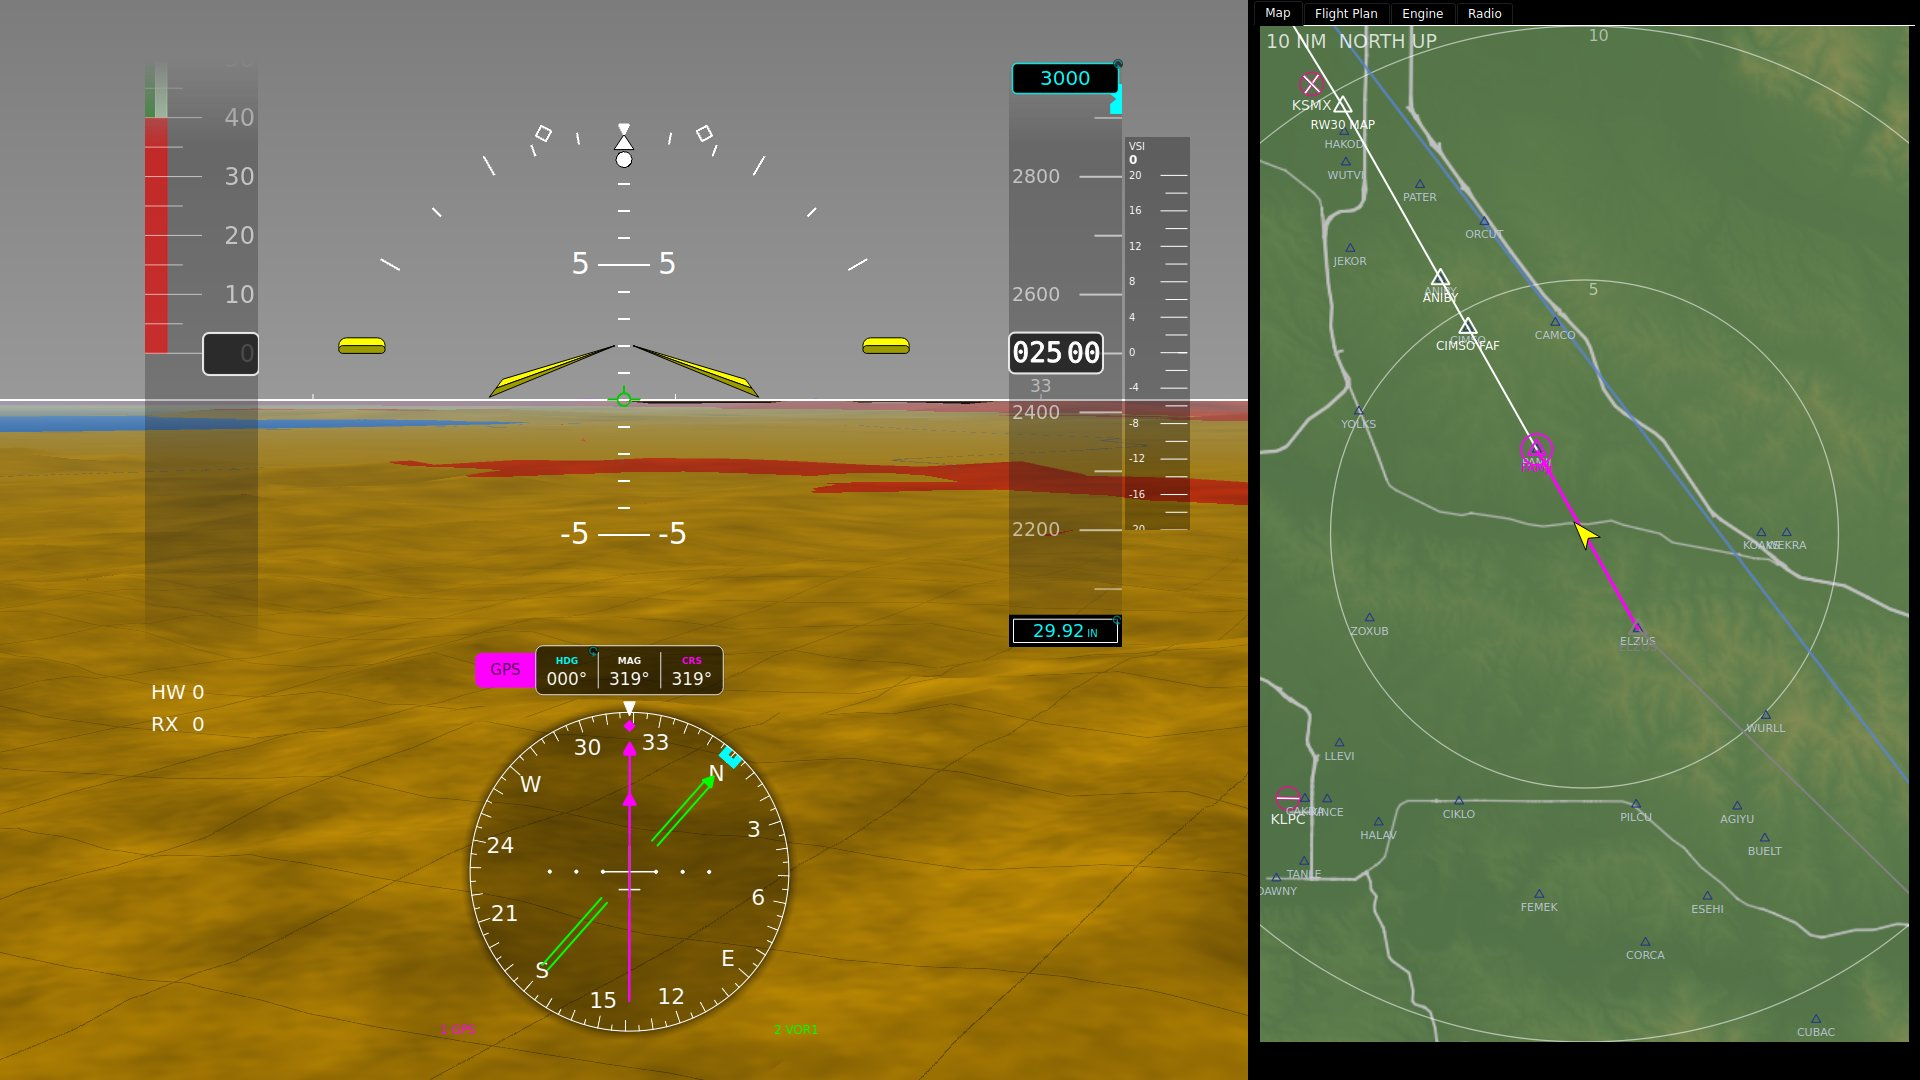
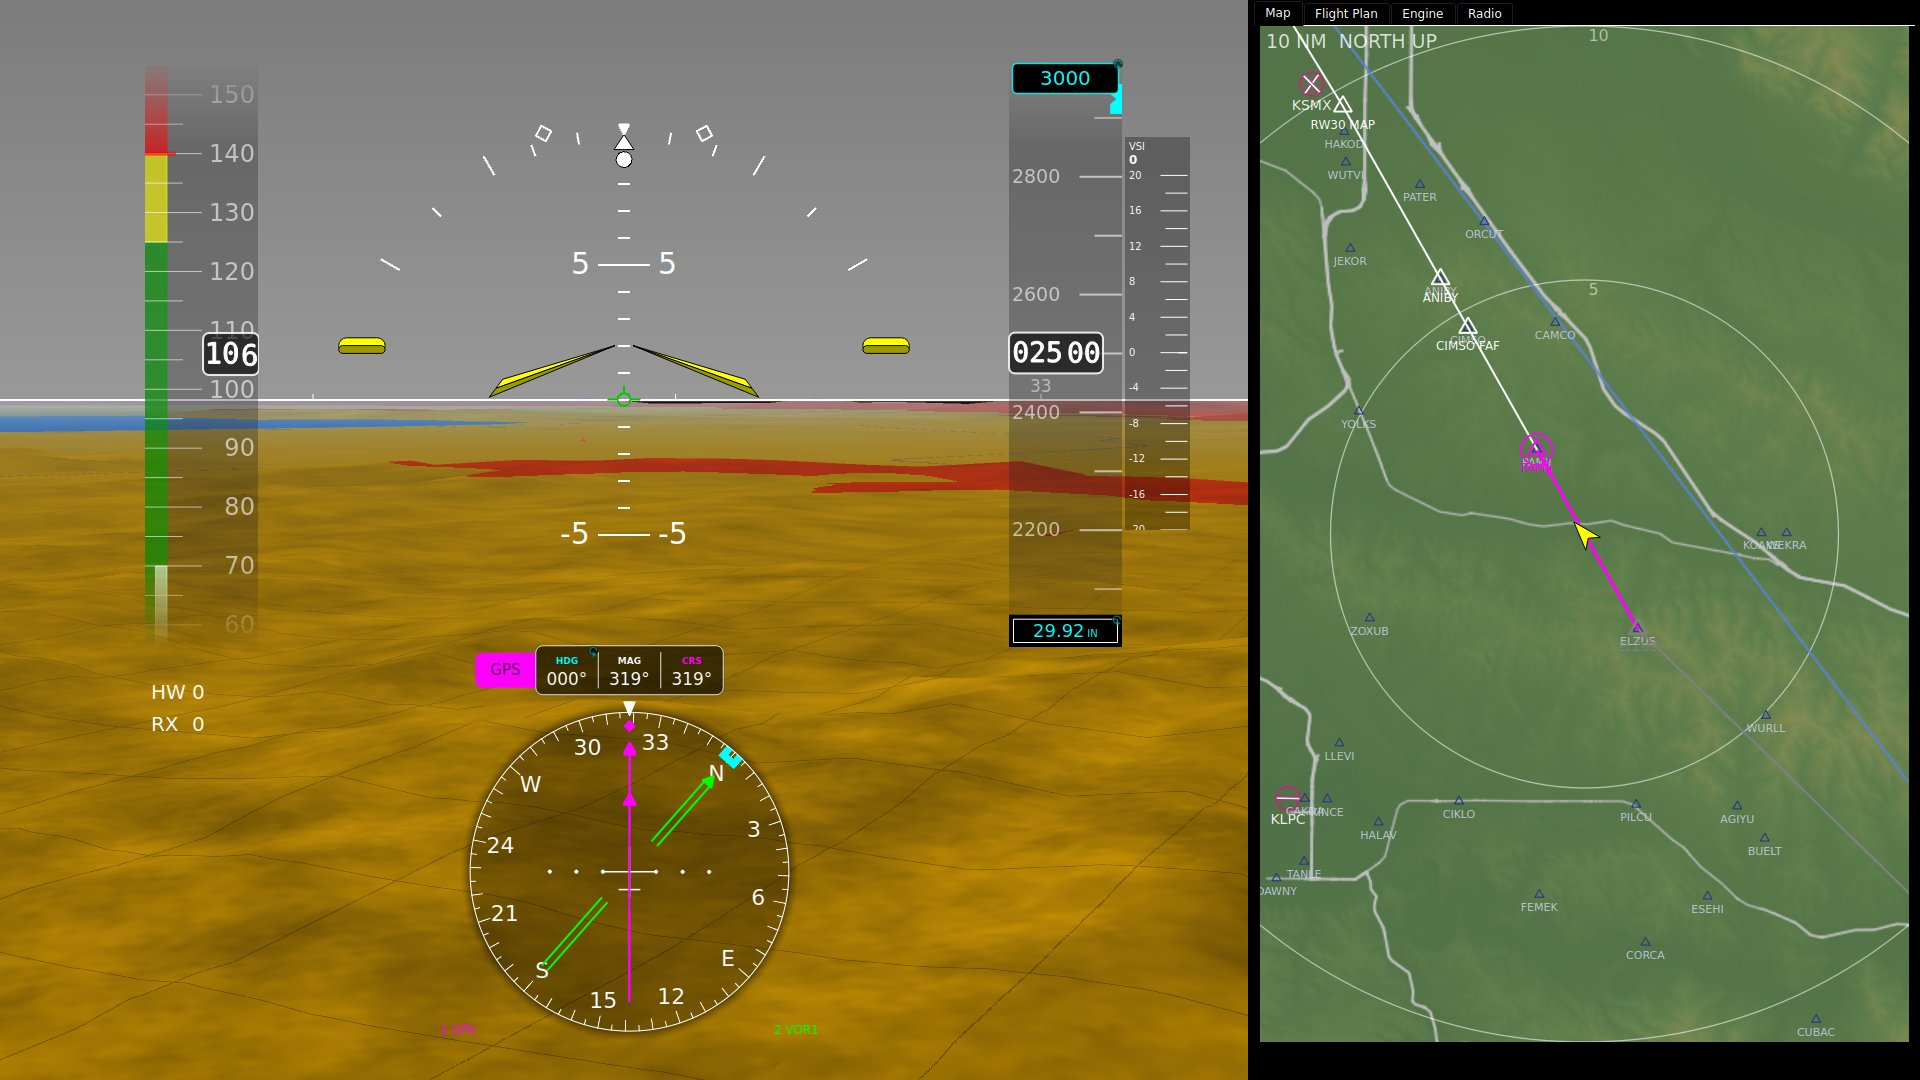
doc/evidence: SYN2 Beelink run 2, IAS on the tape (AER-4209)

Changed region(s): [[0.0625, 0.0611, 0.1562, 0.5806]]

diff --git a/doc/evidence/syn2-live/README.md b/doc/evidence/syn2-live/README.md
@@ -1,5 +1,12 @@
 # SYN2 live-mode bench runs, 2026-10-30
 
+The Beelink frames and `beelink-marks.jsonl` are from run 2 (22:28-22:48 UTC,
+branch at `60153d6`, the generator now feeding `IAS`), against the bench
+gateway at `27dccad` (dev with AER-4217's 2 s position bound). Run 1
+(12:41 UTC, no `IAS`, so the tape read 0 kt) is in the history of this
+directory. The Pi 5 log is from run 1; the Pi was not re-run, because IAS
+changes nothing it can evidence without a screenshot.
+
 Profile `fp8-ksmx-rnav30-missed` flown live at x1 (1172.2 s) into each
 bench's running gateway, no sim, from a scratch copy of `src/fixgw` on
 branch `syn2/live-mode` (`~/bench-scratch/syn2/src`, not the bench checkout),
@@ -7,8 +14,8 @@ under `/tmp/pyefis-bench.lock` with a 45 min outer timeout.
 
 | Box | Display | Result | Evidence |
 |---|---|---|---|
-| Beelink 10.110.10.241 | X11, 1920x1080 | exit 0, 111552 writes, worst lateness 0.000 s, 9 hooks, 0 failed | `beelink-marks.jsonl`, the JPEGs here |
-| Pi 5 10.110.10.199 | eglfs | exit 0, 111552 writes, worst lateness 0.000 s | `pi5-marks.jsonl` only: there is no screenshot on eglfs |
+| Beelink 10.110.10.241 | X11, 1920x1080 | run 2: exit 0, 117414 writes, worst lateness 0.000 s, 9 hooks, 0 failed | `beelink-marks.jsonl`, the JPEGs here |
+| Pi 5 10.110.10.199 | eglfs | run 1: exit 0, 111552 writes, worst lateness 0.000 s | `pi5-marks.jsonl` only: there is no screenshot on eglfs |
 
 The Pi's active database has no `sim.yaml`, so its `REF*` writes were
 dropped (the run says so on its first line); nothing on the glass reads them.
@@ -21,11 +28,11 @@ panel blank):
 ```
 cd ~/bench-scratch/syn2/src
 flock -o -w 900 /tmp/pyefis-bench.lock timeout 45m \
-    python3 -m fixgw.sim live fixgw/sim/profiles/fp8-ksmx-rnav30-missed.yaml \
-        --log ~/bench-scratch/syn2/marks.jsonl \
+    ~/pyefis-venv/bin/python -m fixgw.sim live fixgw/sim/profiles/fp8-ksmx-rnav30-missed.yaml \
+        --log ~/bench-scratch/syn2/marks2.jsonl \
         --hook 'DISPLAY=:0 ffmpeg -loglevel error -y -f x11grab -draw_mouse 0 \
                 -video_size 1920x1080 -i :0 -frames:v 1 \
-                ~/bench-scratch/syn2/shots/$SYN_INDEX-$SYN_WHAT-$SYN_FIX.png'
+                ~/bench-scratch/syn2/shots2/$SYN_INDEX-$SYN_WHAT-$SYN_FIX.png'
 ```
 
 `00-before` was one manual `x11grab` before the run. Pi 5: the same command
